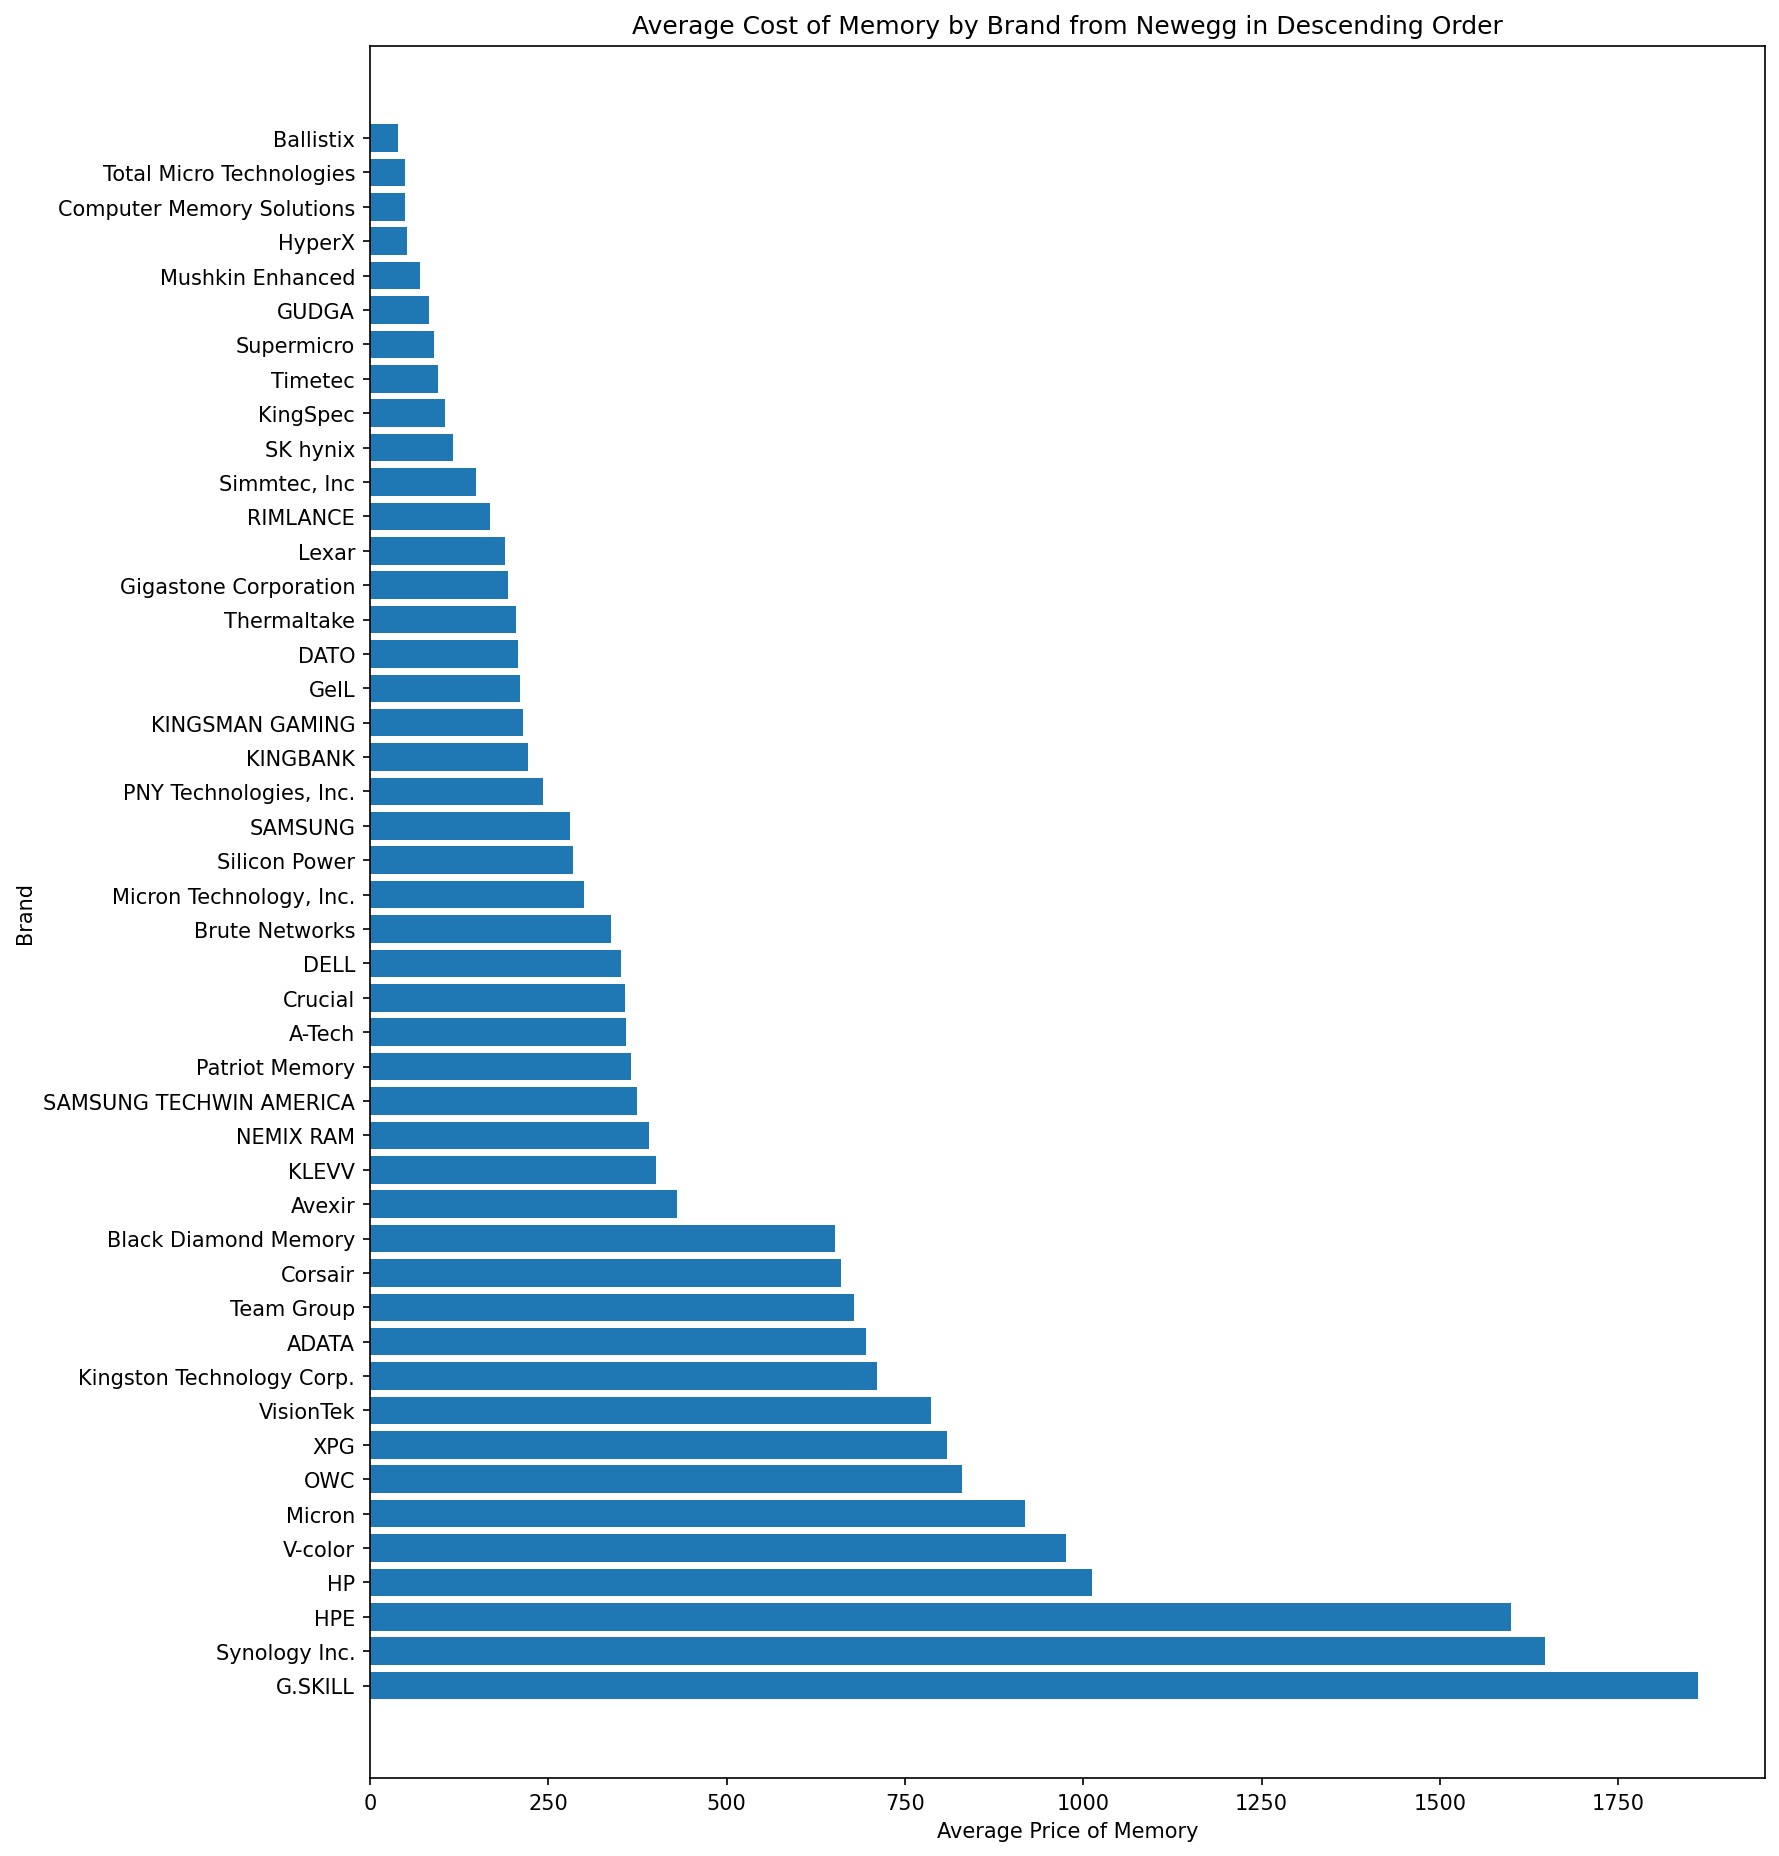
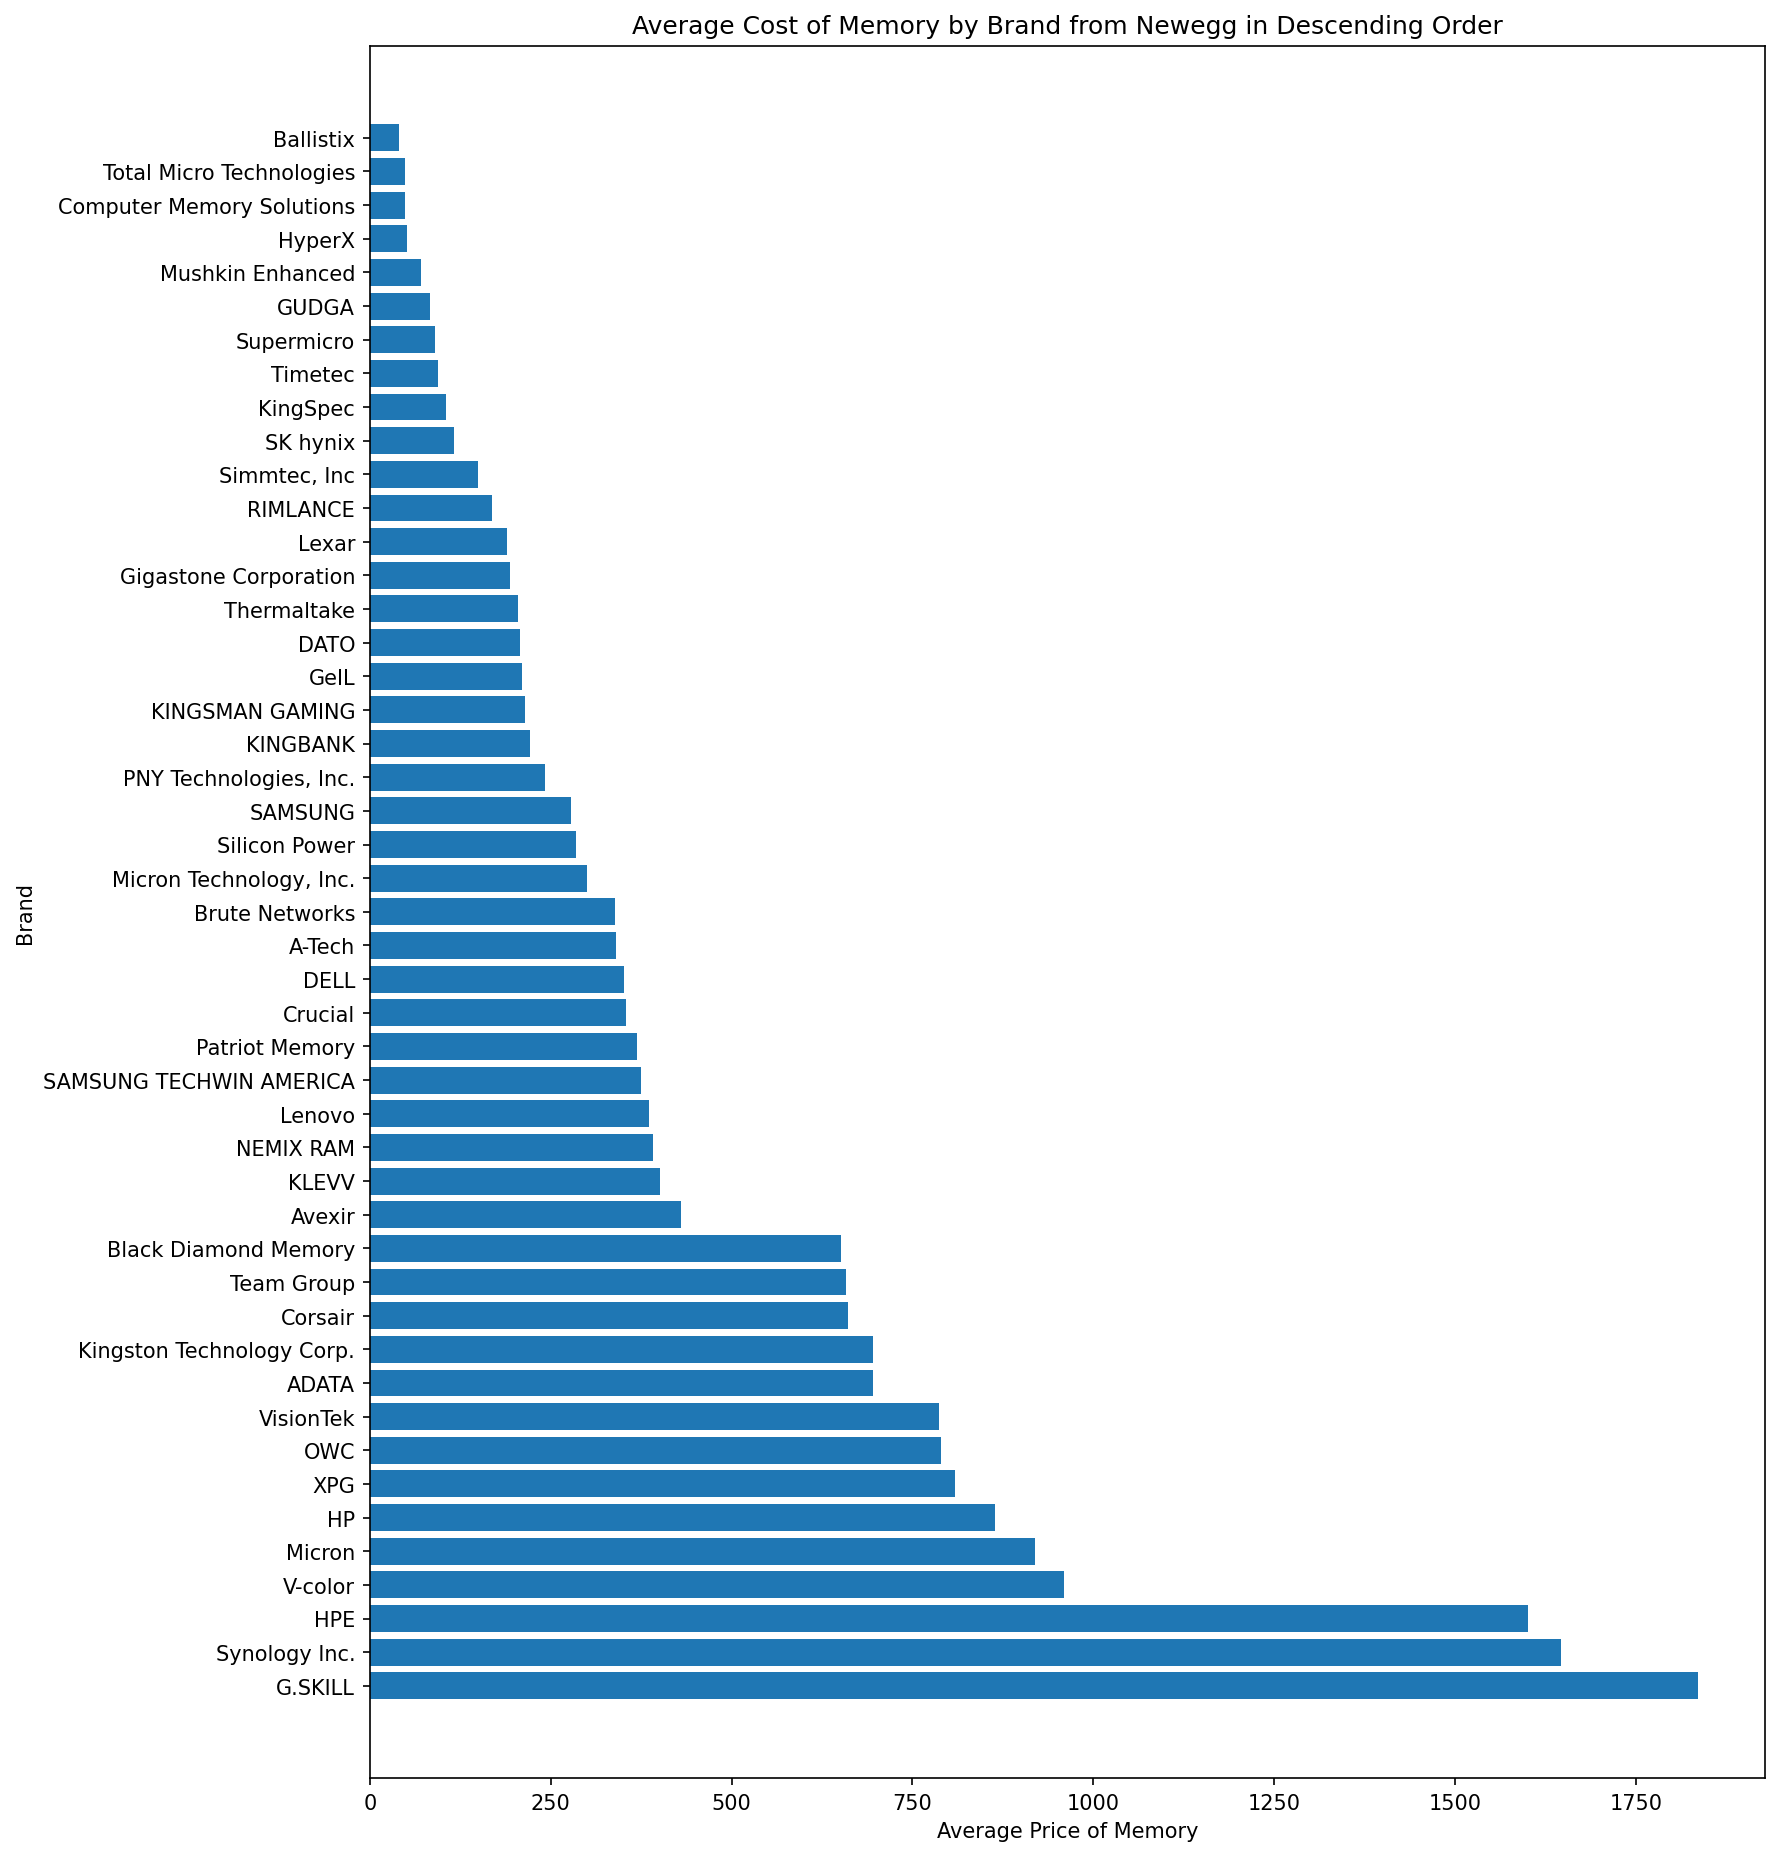
Added JOIN, Subquery, ALTER TABLE, and HAVING SQL concepts

diff --git a/database.py b/database.py
@@ -1,25 +1,57 @@
 import sqlite3
+import logging
 from datetime import datetime, timezone, timedelta
+
+logger = logging.getLogger(__name__)
 
 def init_db(conn):
     cursor = conn.cursor()
     cursor.execute("""
         CREATE TABLE IF NOT EXISTS products 
                 (
-                id          INTEGER   PRIMARY KEY AUTOINCREMENT,
-                title       TEXT,
-                model       TEXT,
-                brand       TEXT,
-                price       REAL,
-                rating      REAL,
-                num_reviews INTEGER,
-                in_stock    INTEGER,
-                url         TEXT      UNIQUE,
-                scraped_at  TEXT
+                id              INTEGER   PRIMARY KEY AUTOINCREMENT,
+                title           TEXT,
+                model           TEXT,
+                brand           TEXT,
+                price           REAL,
+                rating          REAL,
+                num_reviews     INTEGER,
+                in_stock        INTEGER,
+                url             TEXT      UNIQUE,
+                scraped_at      TEXT
                 )
                    """)
+    
+    cursor.execute("""
+        CREATE TABLE IF NOT EXISTS brand_focus
+                (
+                id              INTEGER   PRIMARY KEY AUTOINCREMENT,
+                brand_name      TEXT      UNIQUE,
+                market_focus    TEXT
+                )
+                    """)
+
+
     conn.commit()
 
+def insert_brands(conn, brands):
+    cursor = conn.cursor()
+
+    cursor.executemany("""
+        INSERT OR IGNORE INTO brand_focus
+                        (brand_name, market_focus)
+                        VALUES(?,?)""",
+        [
+        (
+            brand['brand_name'],
+            brand['market_focus']
+        )
+        for brand in brands
+        ]
+        )
+    
+    conn.commit()
+    
 def insert_rows(conn, rows):
     cursor = conn.cursor()
 
@@ -44,10 +76,24 @@ def insert_rows(conn, rows):
         )
     conn.commit()
 
+def add_price_drop_column(conn):
+    cursor = conn.cursor()
+
+    try:
+        cursor.execute("""
+                   ALTER TABLE products 
+                   ADD COLUMN price_drop REAL
+                   """
+        )
+        conn.commit()
+        logger.info('Added price_drop column to products')
+    except Exception as e:
+        logger.info('price_drop column already exists, skipping')
+
 def get_all(conn):
     cursor = conn.cursor()
     cursor.execute(""" SELECT * FROM products
-                           ORDER BY scraped_at DESC""")
+                       ORDER BY scraped_at DESC""")
     
     return cursor.fetchall()
 
@@ -65,10 +111,11 @@ if __name__ == '__main__':
     from config import DB_PATH
 
     conn = sqlite3.connect(DB_PATH)
-    init_db(conn)
-
+    init_db (conn)
     rows = scrape_all_pages()
     insert_rows(conn, rows)
+
+    add_price_drop_column(conn)
 
     recent = get_recent(conn, 1)
     print(f'Rows from last 1 day: {len(recent)}')

diff --git a/analyzer.py b/analyzer.py
@@ -41,11 +41,39 @@ def products_by_market_focus(conn):
     df=pd.read_sql_query(sql,conn)
     return df
 
+def most_active_scrape_day(conn):                                                                           #Subquery that finds the count of products entered into DB on specific days
+    sql="""
+        SELECT date, count 
+        FROM 
+            (SELECT DATE(scraped_at) as date, COUNT(*) as count
+            FROM products
+            GROUP BY date) 
+        WHERE count = 
+            (SELECT MAX(count) 
+            FROM    
+                (SELECT DATE(scraped_at) as date, COUNT(*) as count
+                FROM products
+                GROUP BY date))
+        """
+    df=pd.read_sql_query(sql,conn)
+    return df
+
+def brands_with_significant_listings(conn, min_count):
+    sql="""
+        SELECT brand,COUNT(*) as product_count
+        FROM products
+        GROUP BY brand
+        HAVING product_count > ?
+        """
+    df=pd.read_sql_query(sql,conn,params=(min_count,))                                                      #Dont forget comma after min_count
+    return df
+
 if __name__ == "__main__":
     import sqlite3
     from config import DB_PATH
     
     conn = sqlite3.connect(DB_PATH)
-    df = products_by_market_focus(conn)
-    print(df)
+    print(products_by_market_focus(conn))
+    print(most_active_scrape_day(conn))
+    print(brands_with_significant_listings(conn,10))
     conn.close()

diff --git a/main.py b/main.py
@@ -2,8 +2,8 @@ import sqlite3
 import logging
 import schedule
 import time
-from config import DB_PATH, SCRAPE_INTERVAL_HOURS
-from database import init_db, insert_rows
+from config import DB_PATH, SCRAPE_INTERVAL_HOURS, BRANDS
+from database import init_db, insert_rows, insert_brands
 from scraper import scrape_all_pages
 
 logger = logging.getLogger(__name__)
@@ -11,6 +11,8 @@ logging.basicConfig(level=logging.INFO)
 
 conn=sqlite3.connect(DB_PATH)
 init_db(conn)
+
+insert_brands(conn,BRANDS)
 
 def scrape_and_store():
     try: